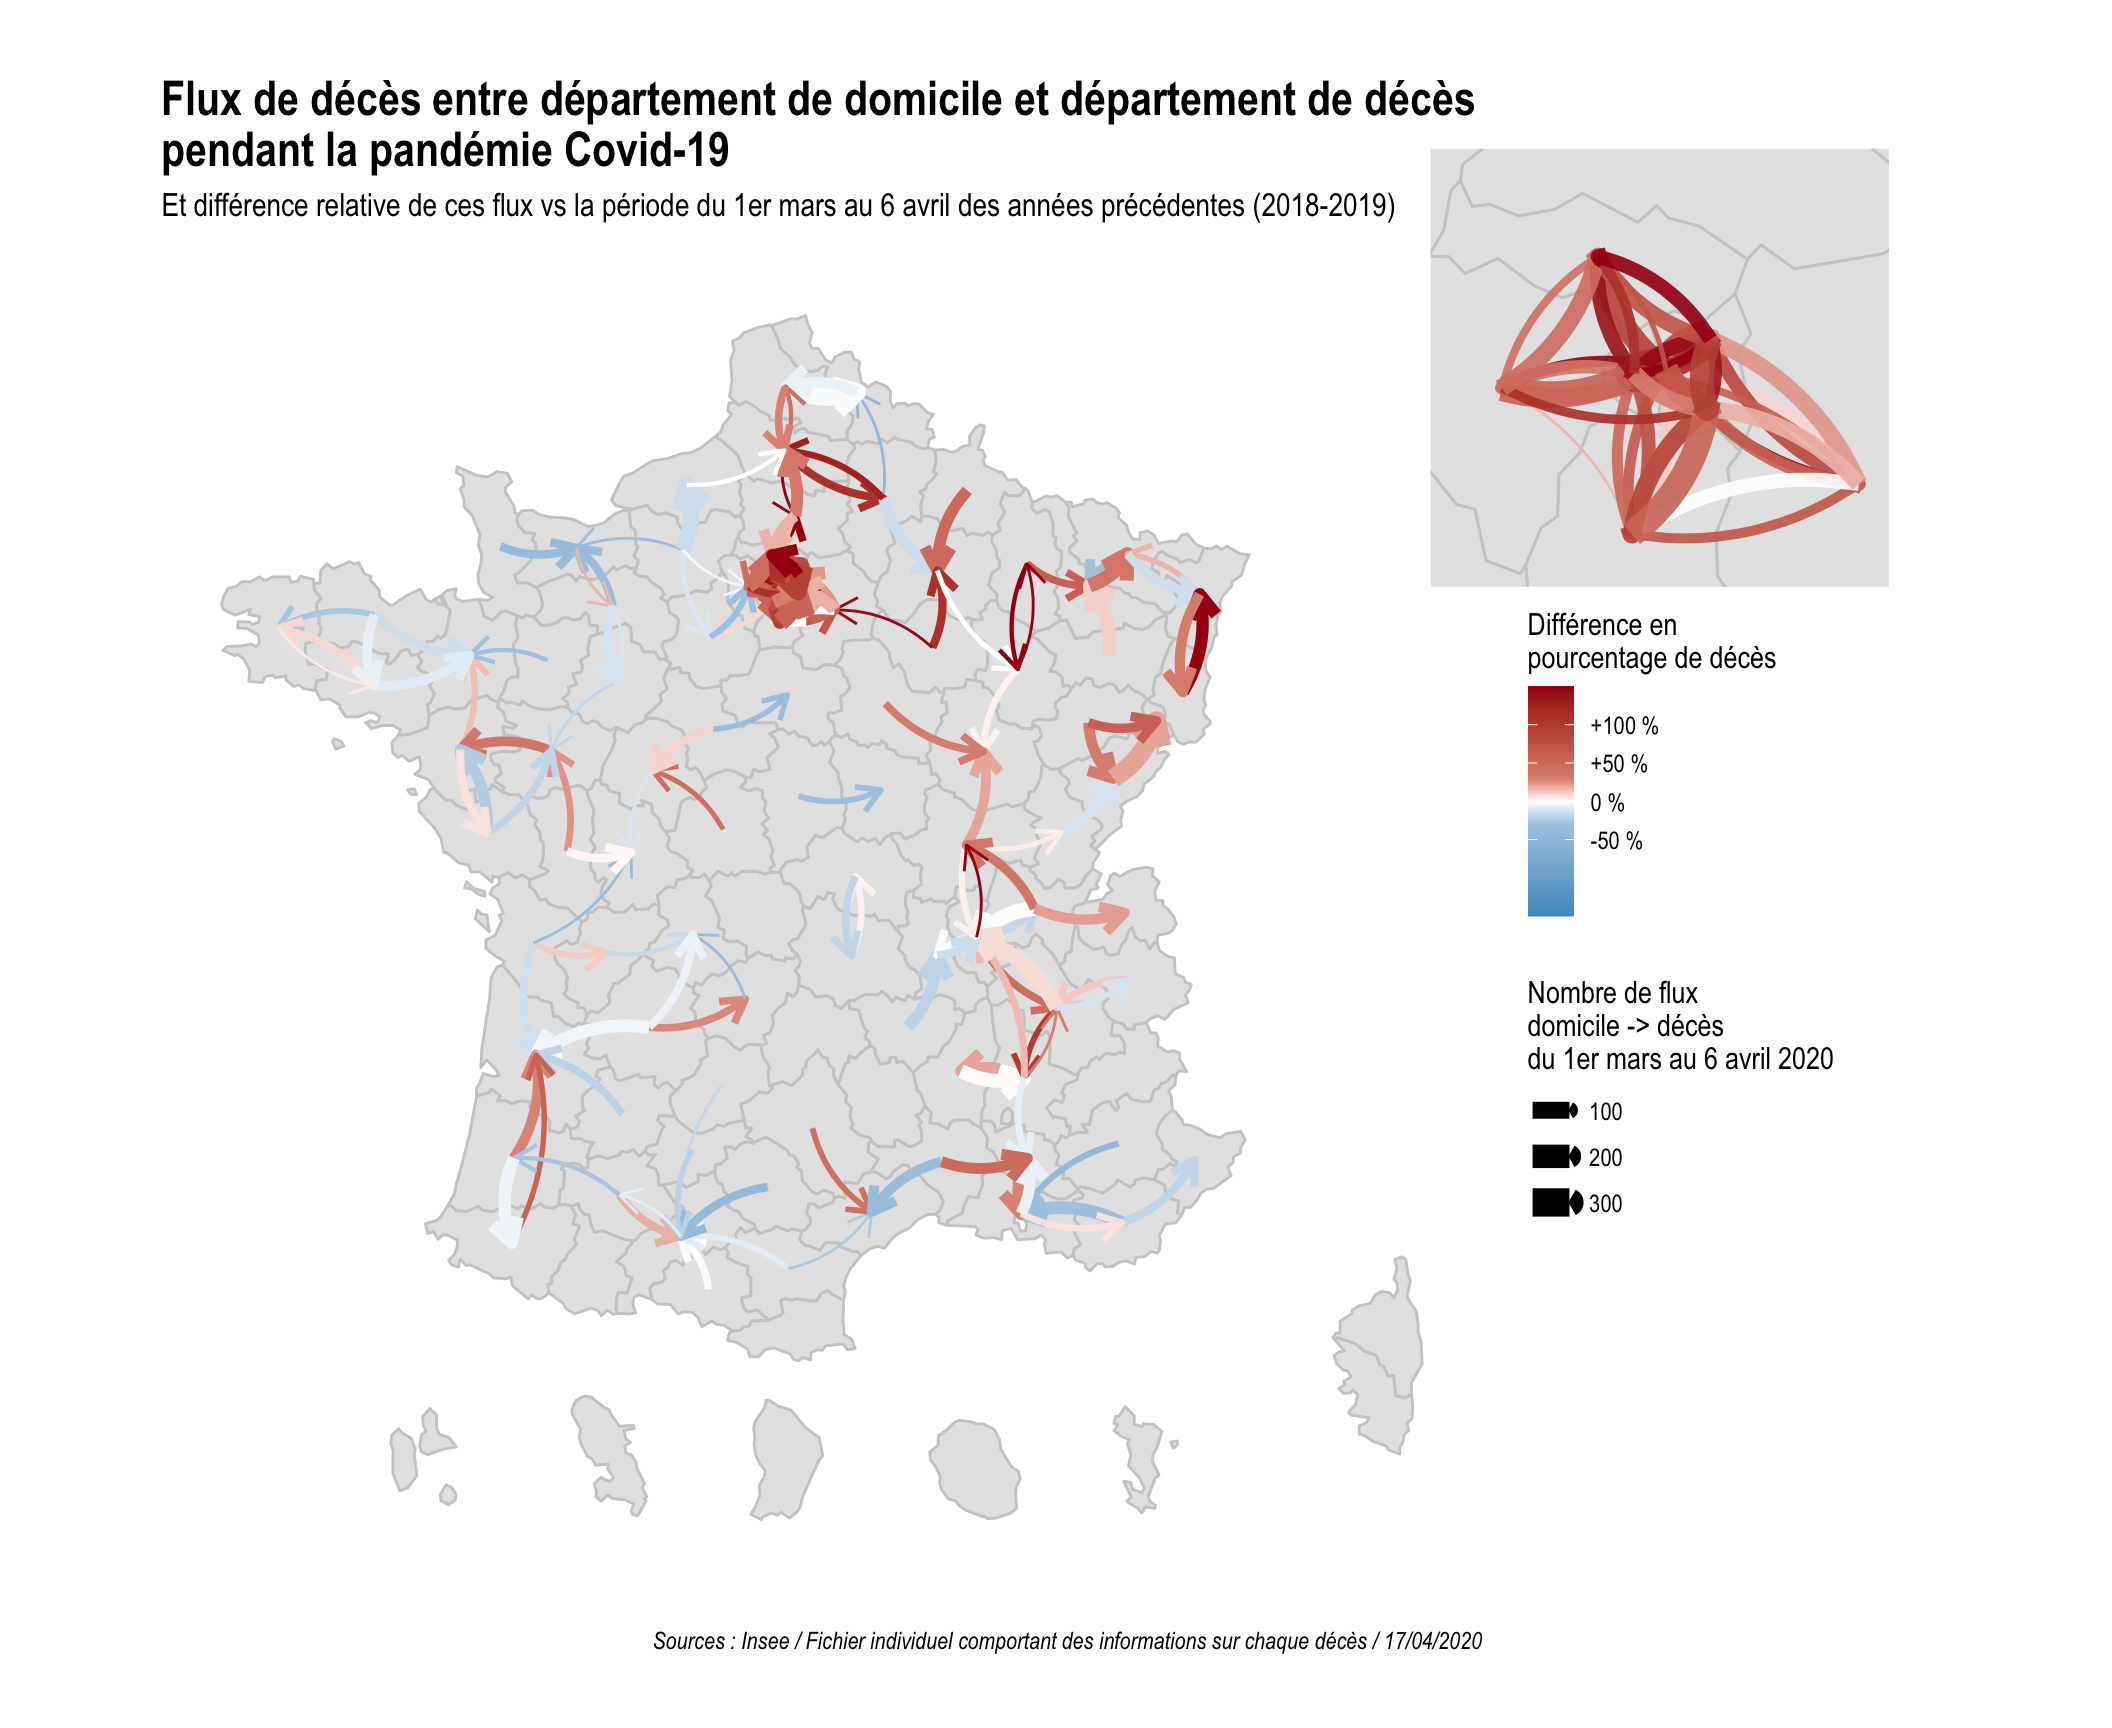
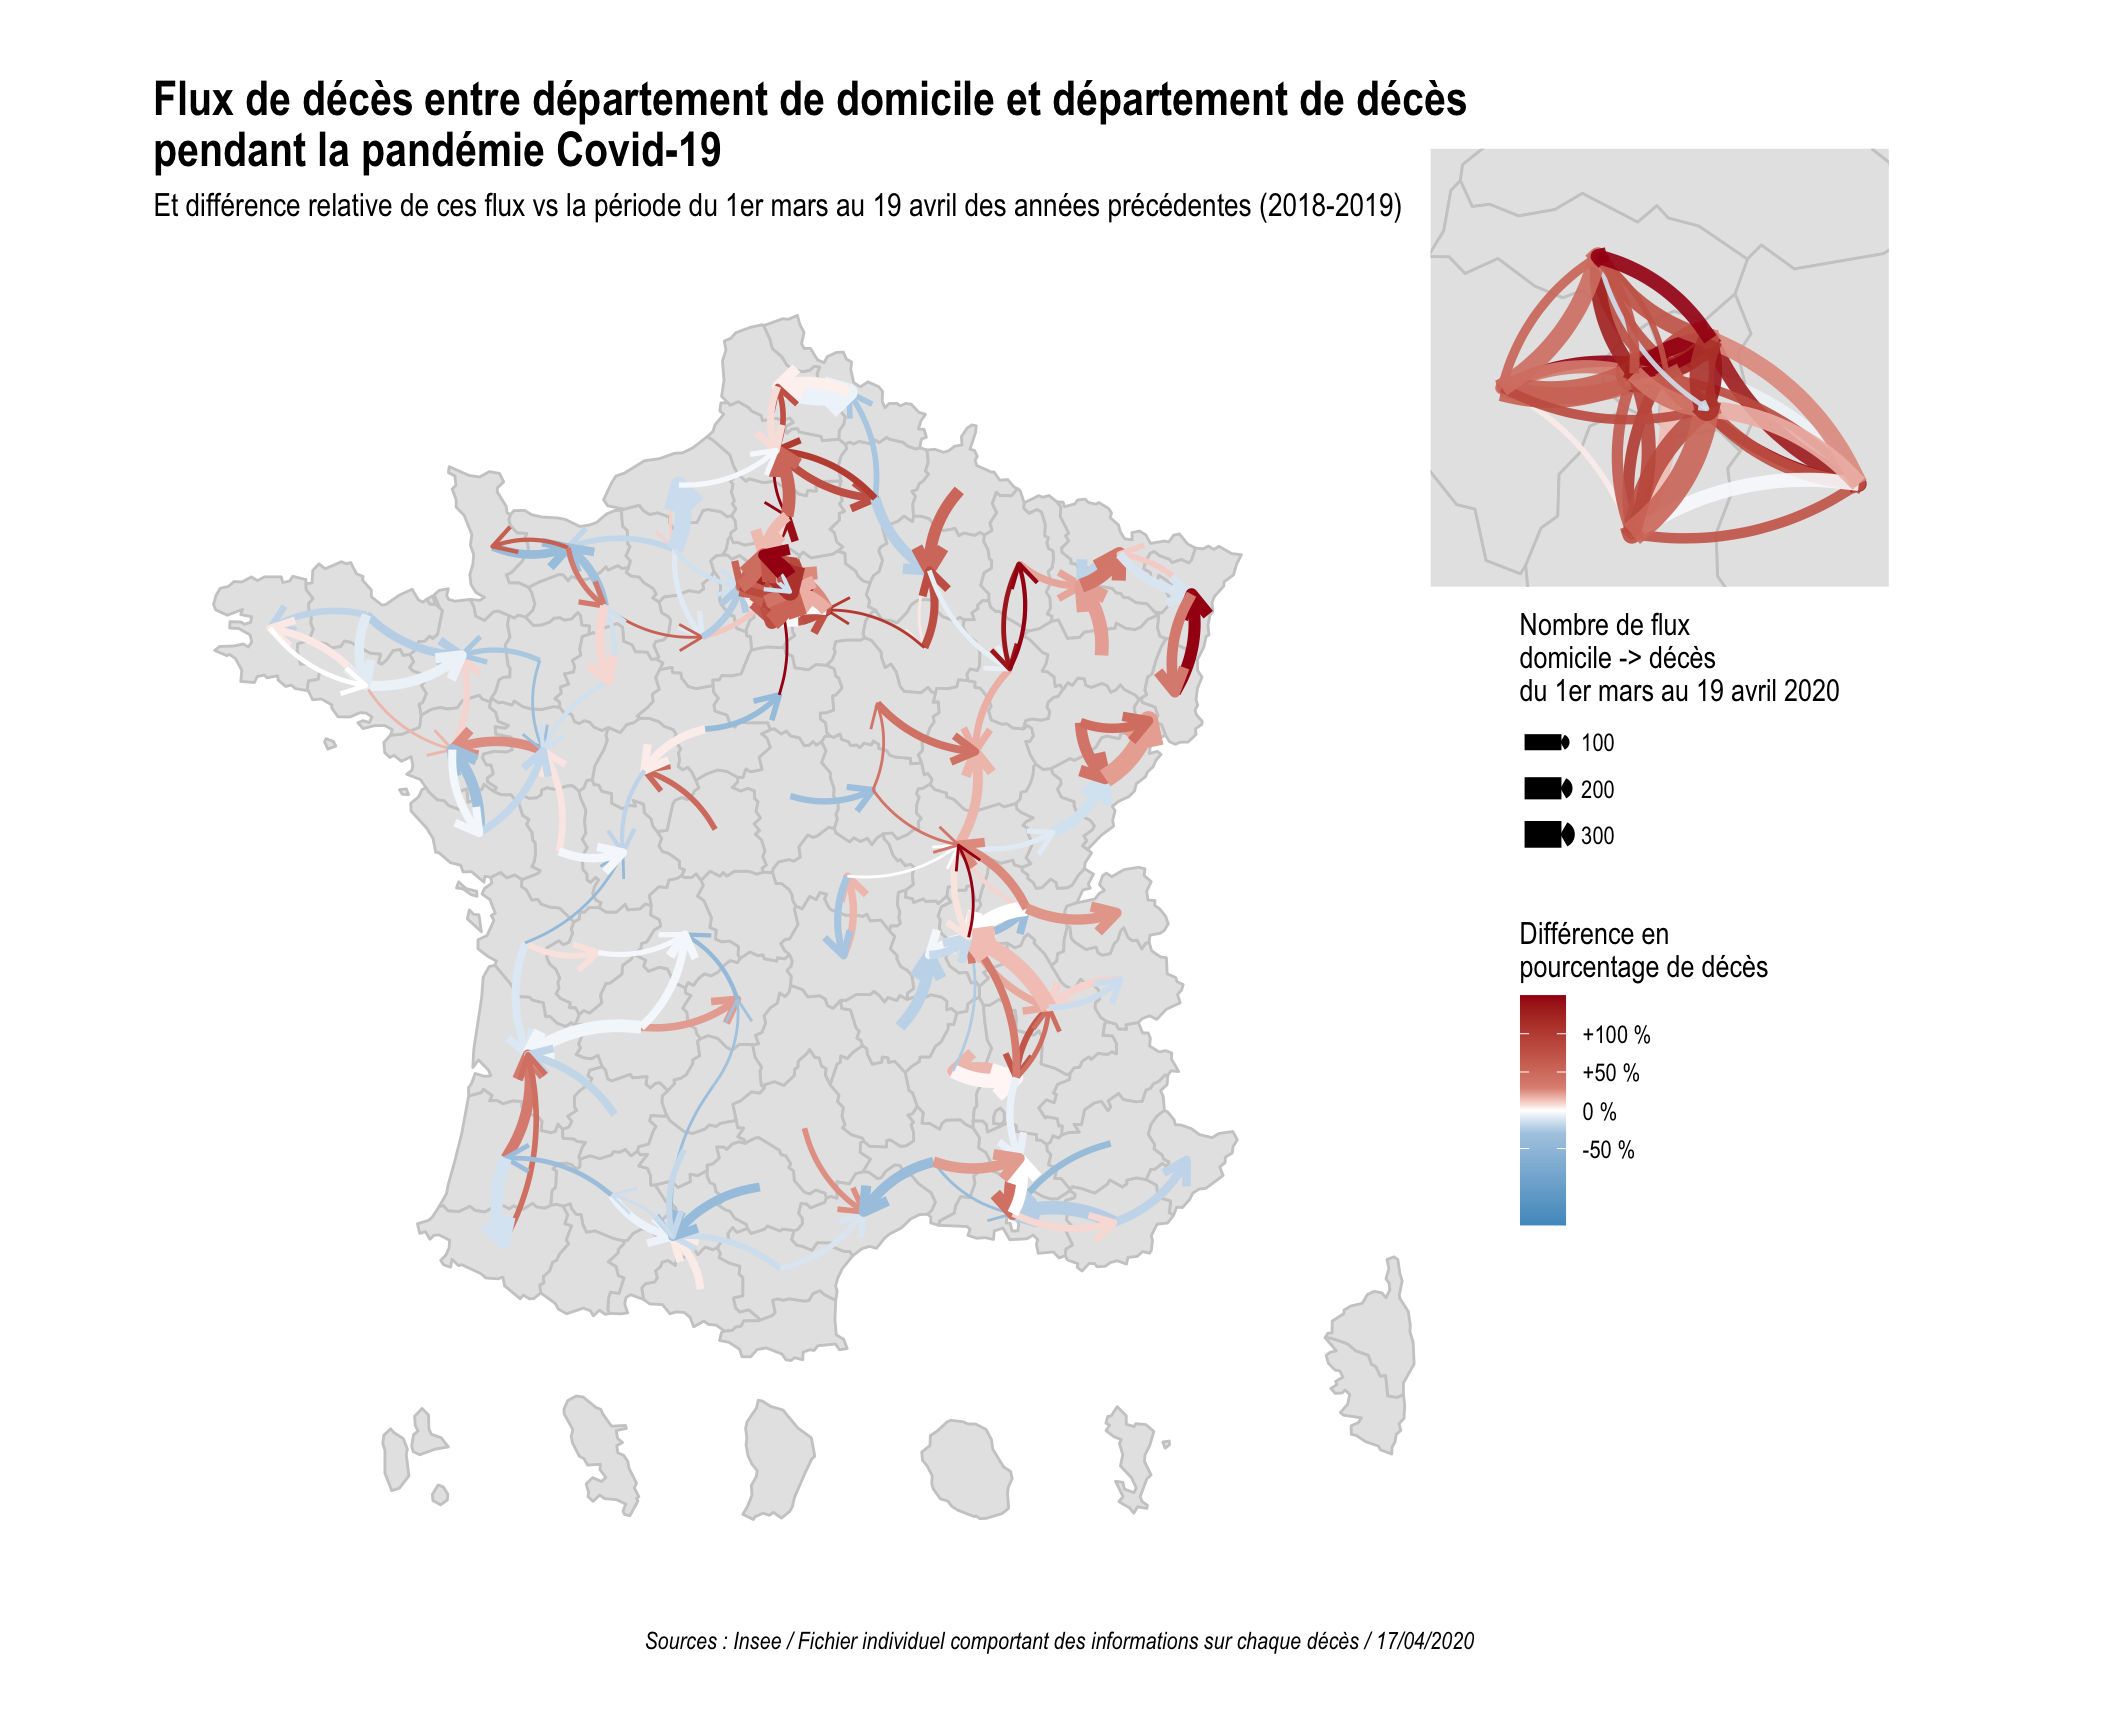
update 30/04

diff --git a/blog/deces_pandemie/index.html b/blog/deces_pandemie/index.html
@@ -121,7 +121,7 @@
                           </p>
 
                           <p class="date-comments">
-                          <i class="fa fa-calendar-o"></i> April 21, 2020
+                          <i class="fa fa-calendar-o"></i> May 1, 2020
                           </p>
 
                           <ul class="tags-cloud">
@@ -152,11 +152,11 @@
 <h4>Méthodo</h4>
 <ul>
 <li><a href="https://www.insee.fr/fr/information/4470857">Analyse de l’Insee</a></li>
-<li><a href="https://www.insee.fr/fr/statistiques/fichier/4470857/2020-04-24_detail.zip">Fichier de données individuelles publiées par l’Insee</a></li>
+<li><a href="https://www.insee.fr/fr/statistiques/fichier/4470857/2020-04-30_detail.zip">Fichier de données individuelles publiées par l’Insee</a></li>
 <li><a href="https://statisfaction.wordpress.com/2020/04/12/a-quick-preliminary-study-of-covid-death-under-reporting-in-france/">Modélisation de l’excédent de décès</a></li>
-<li><a href="https://github.com/mtmx/pandemie_excedeces">Code des graphiques et stats de ce post</a></li>
+<li><a href="https://github.com/mtmx/pandemie_excedeces">Code des graphiques et stats qui suivent</a></li>
 </ul>
-<p>Comme dans l’analyse de l’Insee l’idée globale de ce qui suit est donc une <strong>analyse de l’excédent de décès pendant la pandémie de Covid-19</strong> : on compare le nombre de décès du 1er mars au 13 avril des années précédentes (2018 et 2019) au nombre de décès du 1er mars au 13 avril 2020.
+<p>Comme dans l’analyse de l’Insee l’idée globale de ce qui suit est donc une <strong>analyse de l’excédent de décès pendant la pandémie de Covid-19</strong> : on compare le nombre de décès du 1er mars au 19 avril des années précédentes (2018 et 2019) au nombre de décès du 1er mars au 19 avril 2020.
 <strong>On ne peut donc pas conclure directement que ces décès sont des malades du Covid-19.</strong></p>
 <p>Les alertes méthodologiques de l’Insee :</p>
 <ul>
@@ -168,7 +168,7 @@
 </div>
 <div id="profil-agesexe" class="section level3">
 <h3>Profil age/sexe</h3>
-<p>On compare les décès de cette année (période 1er mars - 13 avril) à ceux des années précédents sur la même période.
+<p>On compare les décès de cette année (période 1er mars - 19 avril) à ceux des années précédents sur la même période.
 En foncé on distingue donc l’excédent des décès pendant cette période de pandémie (versus les années précédentes) :</p>
 <p><img src="/blog/deces_pandemie_files/figure-html/pyramide_1-1.png" width="864" /></p>
 <p>Ci-dessous on s’intéresse uniquement l’excédent (ou le déficit pour les classes d’âge jeunes) de décès pendant cette période de pandémie, c’est à dire ce qui était en couleur foncée dans le premier graphique :</p>
@@ -184,9 +184,14 @@ En foncé on distingue donc l’excédent des décès pendant cette période de 
 Le zoom sur l’Ile de France est illisible mais on peut simplement voir que tous les flux ont augmenté.</p>
 <p><img src="/blog/deces_pandemie_files/figure-html/carte_dep_flux-1.png" width="1056" /></p>
 </div>
-<div id="localisation-des-décès-au-niveau-local" class="section level3">
-<h3>Localisation des décès au niveau local</h3>
+<div id="localisation-plus-précise-des-décès" class="section level3">
+<h3>Localisation plus précise des décès</h3>
 <p><img src="/blog/deces_pandemie_files/figure-html/carte_grid-1.png" width="960" /></p>
+<div id="evolution-temporelle" class="section level4">
+<h4>Evolution temporelle</h4>
+<p><img src="https://raw.githubusercontent.com/mtmx/pandemie_excedeces/master/carto_grid_jour_dor_30042020.gif" width="800" height="800" /></p>
+<p><br></p>
+</div>
 </div>
 <div id="stats-par-commune" class="section level3">
 <h3>Stats par commune</h3>

diff --git a/blog/index.html b/blog/index.html
@@ -144,12 +144,12 @@
 
                           </p>
                           <p class="date-comments">
-                              <a href="/blog/deces_pandemie/"><i class="fa fa-calendar-o"></i> April 21, 2020</a>
+                              <a href="/blog/deces_pandemie/"><i class="fa fa-calendar-o"></i> May 1, 2020</a>
                           </p>
                       </div>
                       <p class="intro">
                        
-                          Excédent de décès pendant la pandémie de Covi-19
+                          Excédent de décès pendant la pandémie de Covid-19
                        </p>
     
 

diff --git a/tags/covid19/index.html b/tags/covid19/index.html
@@ -144,12 +144,12 @@
 
                           </p>
                           <p class="date-comments">
-                              <a href="/blog/deces_pandemie/"><i class="fa fa-calendar-o"></i> April 21, 2020</a>
+                              <a href="/blog/deces_pandemie/"><i class="fa fa-calendar-o"></i> May 1, 2020</a>
                           </p>
                       </div>
                       <p class="intro">
                        
-                          Excédent de décès pendant la pandémie de Covi-19
+                          Excédent de décès pendant la pandémie de Covid-19
                        </p>
     
 

diff --git a/tags/pandémie/index.html b/tags/pandémie/index.html
@@ -144,12 +144,12 @@
 
                           </p>
                           <p class="date-comments">
-                              <a href="/blog/deces_pandemie/"><i class="fa fa-calendar-o"></i> April 21, 2020</a>
+                              <a href="/blog/deces_pandemie/"><i class="fa fa-calendar-o"></i> May 1, 2020</a>
                           </p>
                       </div>
                       <p class="intro">
                        
-                          Excédent de décès pendant la pandémie de Covi-19
+                          Excédent de décès pendant la pandémie de Covid-19
                        </p>
     
 

diff --git a/index.html b/index.html
@@ -129,7 +129,7 @@
                            
                           
                               <p> 
-                                    Excédent de décès pendant la pandémie de Covi-19
+                                    Excédent de décès pendant la pandémie de Covid-19
                                         </p>
                           </div>
                       </div>
